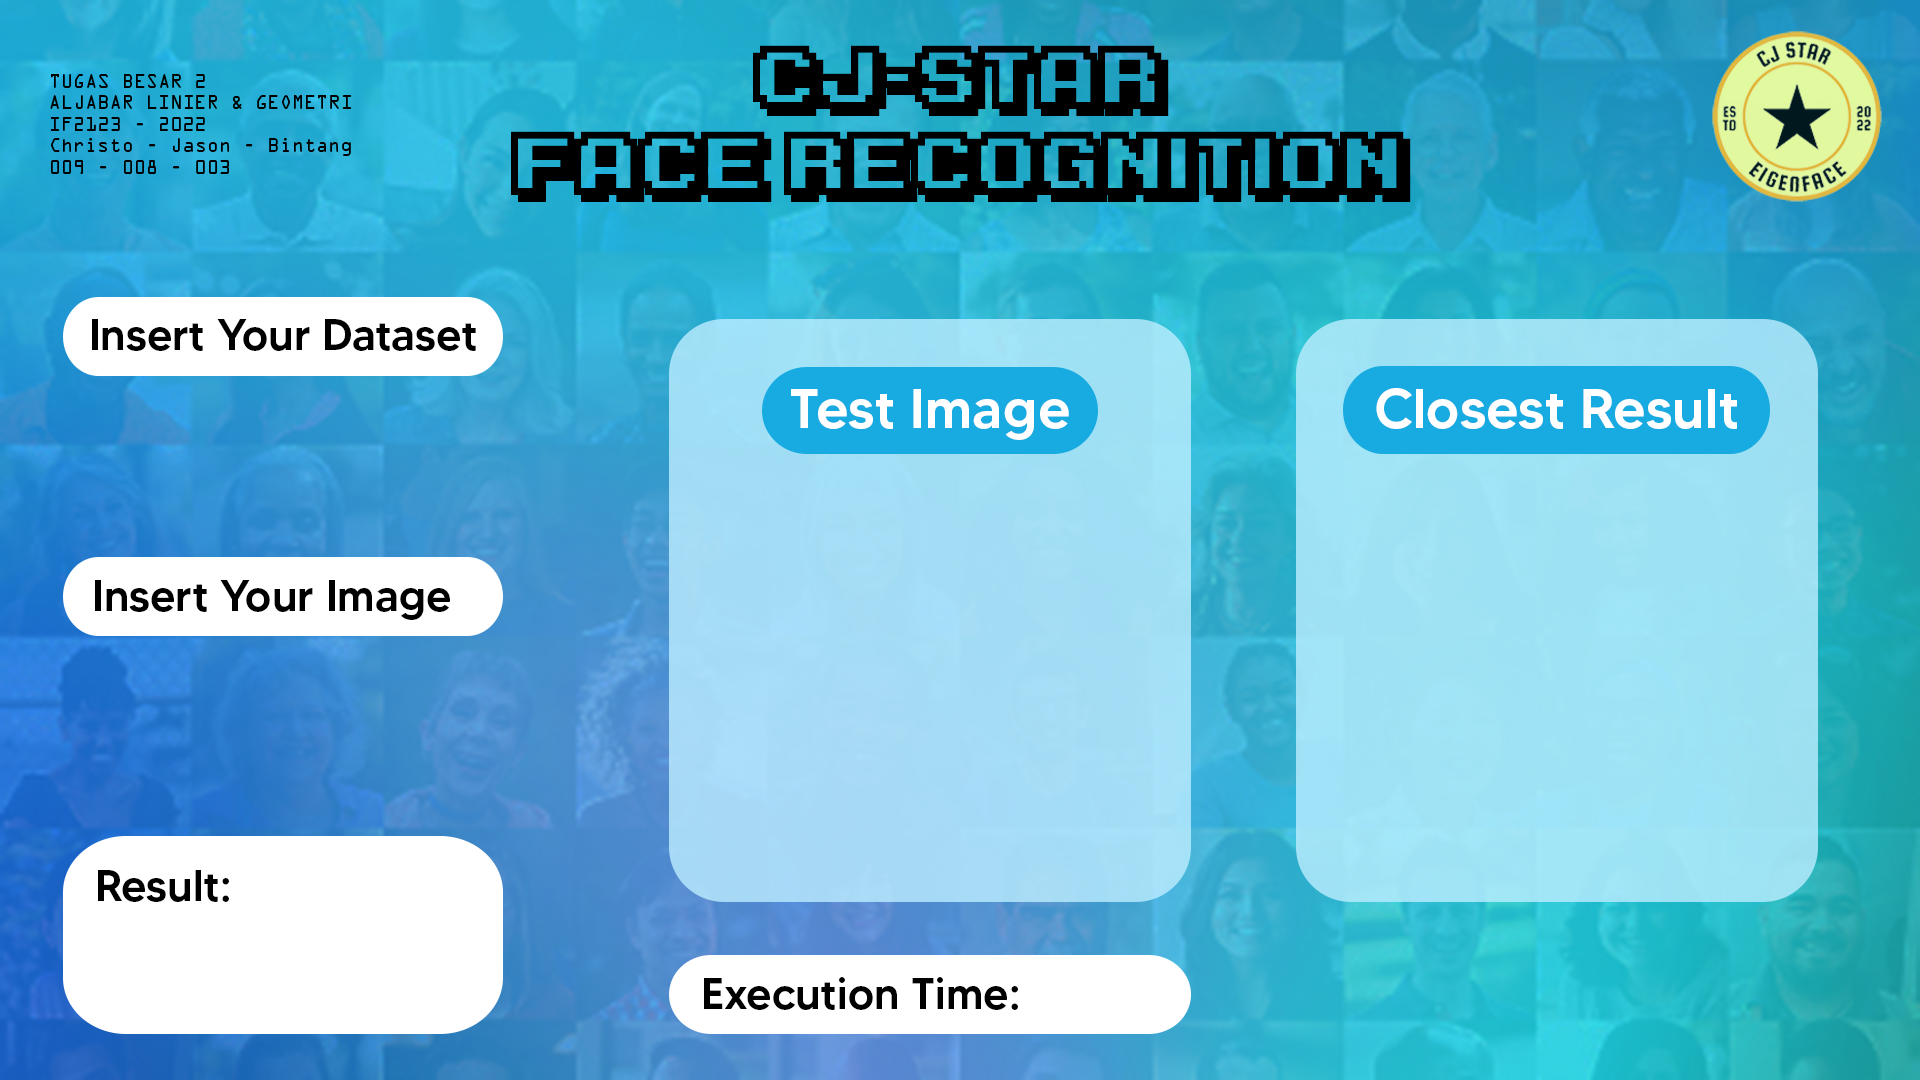
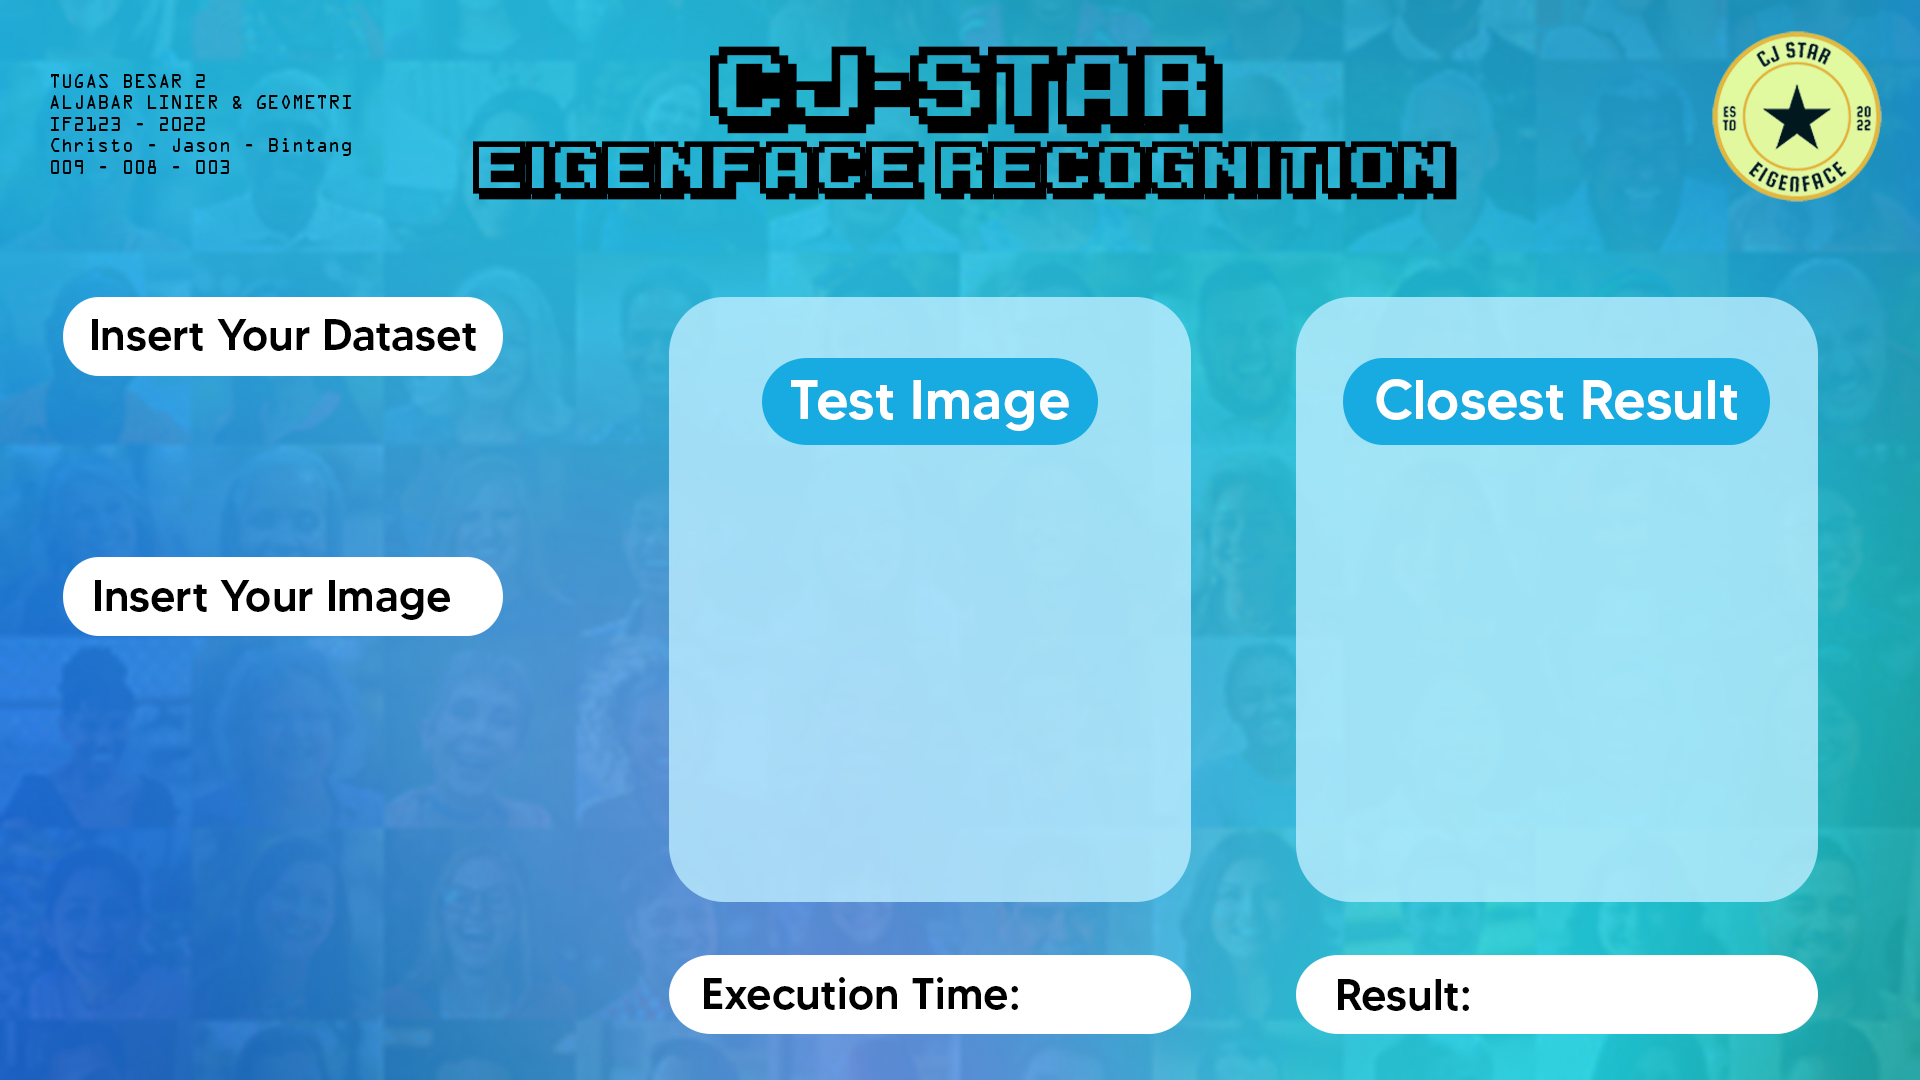
edit button check gui, ganti bg juga

diff --git a/src/guiinterface/programinterface.py b/src/guiinterface/programinterface.py
@@ -62,6 +62,12 @@ button2resized=button2.resize((180,40), Image.ANTIALIAS)
 buttoninp2 = ImageTk.PhotoImage(button2resized)
 btn2=tk.Button(window, image=buttoninp2,borderwidth=0, relief='solid',bg='black', activebackground='black',command=open_file)
 btn2.place(x=75, y=490)
+# button unutk result
+button3 = Image.open("button3.png")
+button3resized=button3.resize((307,132), Image.ANTIALIAS)
+buttoninp3 = ImageTk.PhotoImage(button3resized)
+btn2=tk.Button(window, image=buttoninp3,borderwidth=0, relief='solid',bg='black', activebackground='black')
+btn2.place(x=75, y=625)
 
 # konfigurasi windows
 window.configure(bg='#FFD800')
